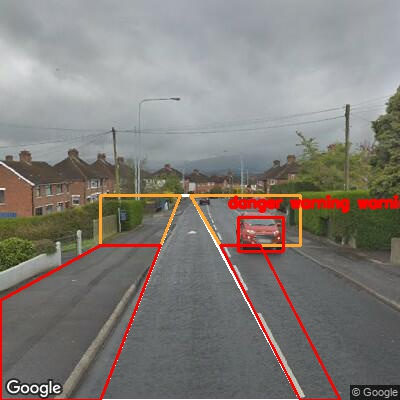
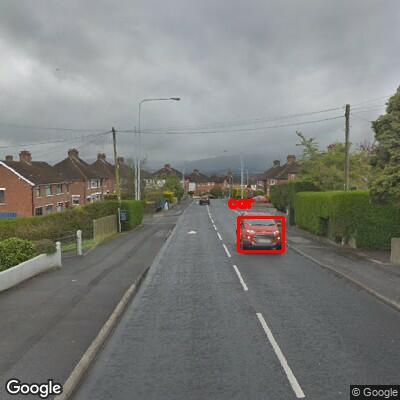
refactored sector detection

diff --git a/learning_darkflow.py b/learning_darkflow.py
@@ -43,12 +43,12 @@ danger_right_sector = np.array([[warning_right_sector[1][0],warning_right_sector
 
 def decide_box_colour(label):
     colour = (0,0,255)
-    colour_list=[{"label":"person","colour":(255,0,0)},{"label":"bicycle","colour":(0,255,0)},{"label":"car","colour":(0,255,0)},
-                {"label":"bus","colour":(242,198,90)},{"label":"truck","colour":(144,75,154)},{"label":"motorbike","colour":(237,155,16)},
-                {"label":"traffic light", "colour":(255,255,0)}]
-    for obj in colour_list:
-        if label==obj["label"]: colour = obj["colour"]
-    if colour =='': colour = (0,0,255)
+    # colour_list=[{"label":"person","colour":(255,0,0)},{"label":"bicycle","colour":(0,255,0)},{"label":"car","colour":(0,255,0)},
+    #             {"label":"bus","colour":(242,198,90)},{"label":"truck","colour":(144,75,154)},{"label":"motorbike","colour":(237,155,16)},
+    #             {"label":"traffic light", "colour":(255,255,0)}]
+    # for obj in colour_list:
+    #     if label==obj["label"]: colour = obj["colour"]
+    # if colour =='': colour = (0,0,255)
     if label.startswith("danger"):
         colour = (0,0,255)
     if label.startswith("warning"):
@@ -64,20 +64,20 @@ def write_boundingboxes(results, imgcv, new_img):
     vtx3 = danger_left_sector
     vtx4 = warning_right_sector
     vtx5 = danger_right_sector
-    cv2.polylines(imgcv, [vtx], True, (255,255,255), 2)
-    cv2.polylines(imgcv, [vtx2], True, (51,165,255), 2)
-    cv2.polylines(imgcv, [vtx3], True, (0,0,255), 2)
-    cv2.polylines(imgcv, [vtx4], True, (51,165,255), 2)
-    cv2.polylines(imgcv, [vtx5], True, (0,0,255), 2)
+    # cv2.polylines(imgcv, [vtx], True, (255,255,255), 2)
+    # cv2.polylines(imgcv, [vtx2], True, (51,165,255), 2)
+    # cv2.polylines(imgcv, [vtx3], True, (0,0,255), 2)
+    # cv2.polylines(imgcv, [vtx4], True, (51,165,255), 2)
+    # cv2.polylines(imgcv, [vtx5], True, (0,0,255), 2)
     results = check_if_object_in_path(results)
     for result in results:
-        if result['label']=='': continue 
+        if result['status']=='': continue 
         cv2.rectangle(imgcv,
                      (result["topleft"]["x"], result["topleft"]["y"]),
                      (result["bottomright"]["x"],result["bottomright"]["y"]),
-                     decide_box_colour(result["label"]), 2)
+                     decide_box_colour(result["status"]), 2)
         text_x, text_y = int(result["topleft"]["x"]) - 10, int(result["topleft"]["y"]) - 10
-        cv2.putText(imgcv, result["label"], (text_x, text_y),cv2.FONT_HERSHEY_SIMPLEX, 0.5, decide_box_colour(result['label']), 2, cv2.LINE_AA)
+        cv2.putText(imgcv, result["label"], (text_x, text_y),cv2.FONT_HERSHEY_SIMPLEX, 0.5, decide_box_colour(result['status']), 2, cv2.LINE_AA)
         cv2.imwrite(new_img, imgcv)
 
 def convertToGif(images, path, route):
@@ -87,72 +87,34 @@ def convertToGif(images, path, route):
             img_list.append(imageio.imread('./{0}/{1}/{2}'.format(path, route, image)))
         imageio.mimsave('./{0}/{1}/journey.gif'.format(path, route),img_list, duration=0.2)
 
+def objectInSector(result, poly, message):
+    result['status'] = ''
+    point1 = Point(result['topleft']['x'], result['topleft']['y'])
+    point2 = Point(result['bottomright']['x'], result['bottomright']['y'])
+    point3 = Point(result['topleft']['x'], result['bottomright']['y'])
+    point4 = Point(result['bottomright']['x'], result['topleft']['y'])
+    if poly.contains(point1):
+        result['status'] = message
+    elif poly.contains(point2):
+        result['status'] = message
+    elif poly.contains(point3):
+        result['status'] = message
+    elif poly.contains(point4):
+        result['status'] = message
+    return result
+
+
+
 def check_if_object_in_path(results):
     for result in results:
-        inside = False
-        point1 = Point(result['topleft']['x'], result['topleft']['y'])
-        point2 = Point(result['bottomright']['x'], result['bottomright']['y'])
-        point3 = Point(result['topleft']['x'], result['bottomright']['y'])
-        point4 = Point(result['bottomright']['x'], result['topleft']['y'])
-        warning_poly = Polygon(warning_path)
-        danger_poly = Polygon(danger_path)
-        left_warning_poly = Polygon(warning_left_sector)
-        left_danger_poly = Polygon(danger_left_sector)
-        right_warning_poly = Polygon(warning_right_sector)
-        right_danger_poly = Polygon(danger_right_sector)
-        if warning_poly.contains(point1):
-            result['label'] = 'warning {0}'.format(result['label'])
-        elif warning_poly.contains(point2):
-            result['label'] = 'warning {0}'.format(result['label'])
-        elif warning_poly.contains(point3):
-            result['label'] = 'warning {0}'.format(result['label'])
-        elif warning_poly.contains(point4):
-            result['label'] = 'warning {0}'.format(result['label'])
+        result['status'] = ''
+        result = objectInSector(result, Polygon(warning_path), "warning" )
+        result = objectInSector(result, Polygon(warning_left_sector), "warning" )
+        result = objectInSector(result, Polygon(warning_right_sector), "warning" )
+        result = objectInSector(result, Polygon(danger_path), "danger" )
+        result = objectInSector(result, Polygon(danger_left_sector), "danger" )
+        result = objectInSector(result, Polygon(danger_right_sector), "danger" )
         
-        if left_warning_poly.contains(point1):
-            result['label'] = 'warning {0}'.format(result['label'])
-        elif left_warning_poly.contains(point2):
-            result['label'] = 'warning {0}'.format(result['label'])
-        elif left_warning_poly.contains(point3):
-            result['label'] = 'warning {0}'.format(result['label'])
-        elif left_warning_poly.contains(point4):
-            result['label'] = 'warning {0}'.format(result['label'])
-        
-        if right_warning_poly.contains(point1):
-            result['label'] = 'warning {0}'.format(result['label'])
-        elif right_warning_poly.contains(point2):
-            result['label'] = 'warning {0}'.format(result['label'])
-        elif right_warning_poly.contains(point3):
-            result['label'] = 'warning {0}'.format(result['label'])
-        elif right_warning_poly.contains(point4):
-            result['label'] = 'warning {0}'.format(result['label'])
-        
-        if danger_poly.contains(point1):
-            result['label'] = 'danger {0}'.format(result['label'])
-        elif danger_poly.contains(point2):
-            result['label'] = 'danger {0}'.format(result['label'])
-        elif danger_poly.contains(point3):
-            result['label'] = 'danger {0}'.format(result['label'])
-        elif danger_poly.contains(point4):
-            result['label'] = 'danger {0}'.format(result['label'])
-
-        if left_danger_poly.contains(point1):
-            result['label'] = 'danger {0}'.format(result['label'])
-        elif left_danger_poly.contains(point2):
-            result['label'] = 'danger {0}'.format(result['label'])
-        elif left_danger_poly.contains(point3):
-            result['label'] = 'danger {0}'.format(result['label'])
-        elif left_danger_poly.contains(point4):
-            result['label'] = 'danger {0}'.format(result['label'])
-
-        if right_danger_poly.contains(point1):
-            result['label'] = 'danger {0}'.format(result['label'])
-        elif right_danger_poly.contains(point2):
-            result['label'] = 'danger {0}'.format(result['label'])
-        elif right_danger_poly.contains(point3):
-            result['label'] = 'danger {0}'.format(result['label'])
-        elif right_danger_poly.contains(point4):
-            result['label'] = 'danger {0}'.format(result['label'])
     return results
 
 
